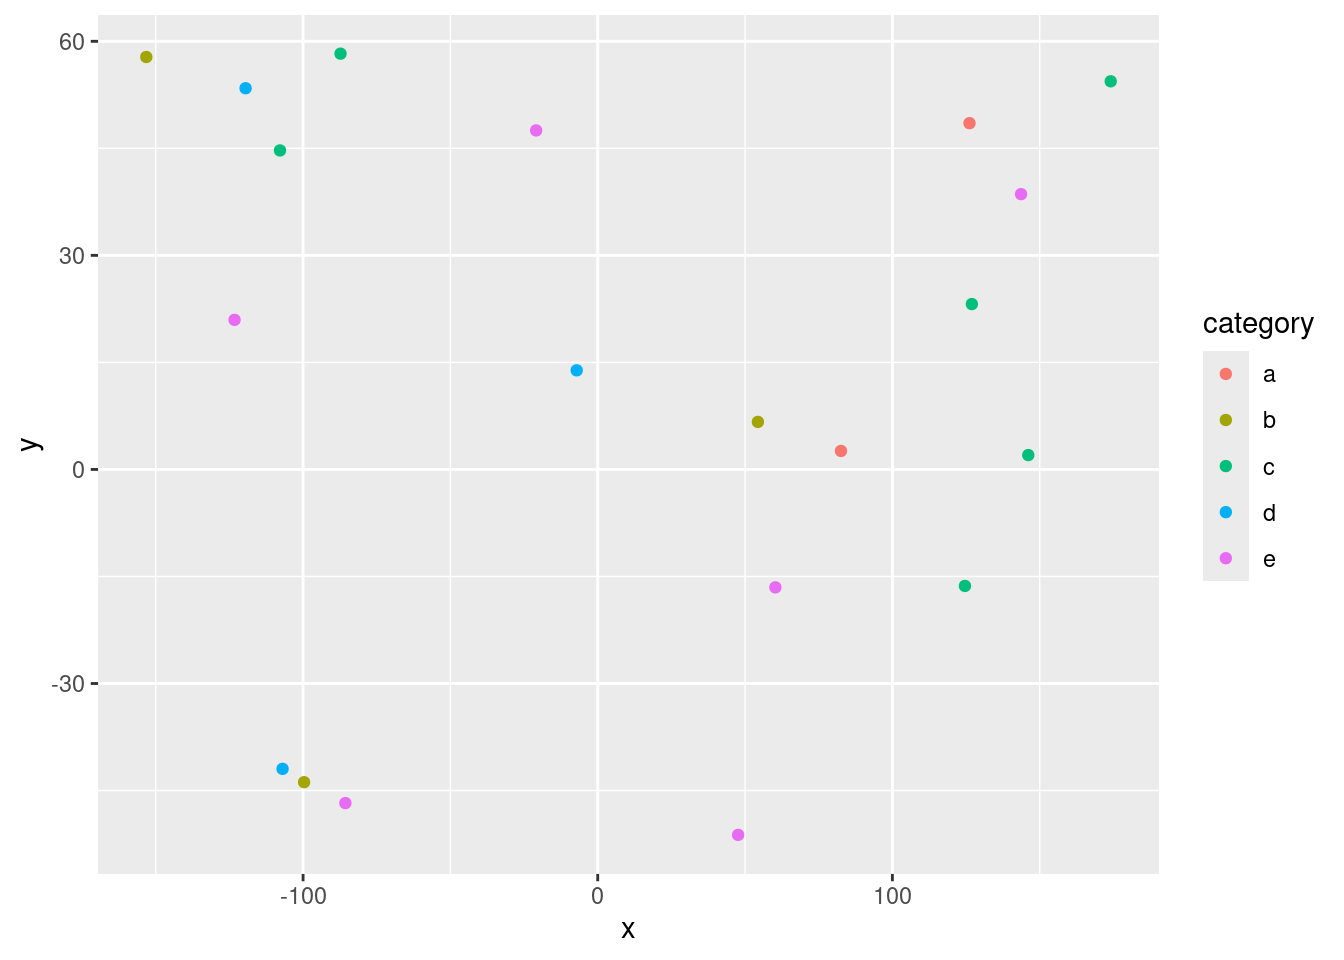
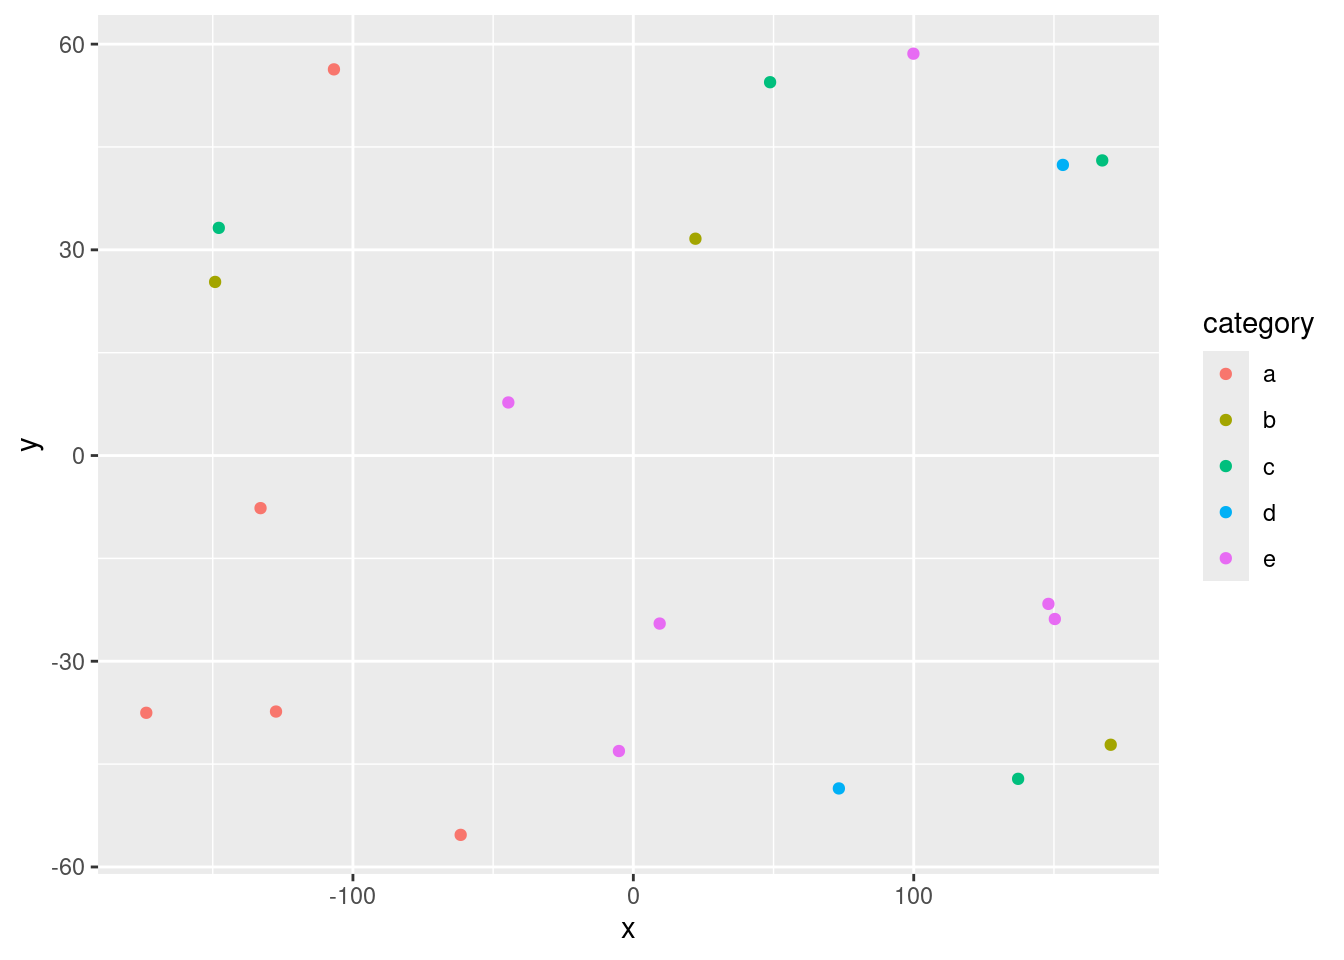
Built site for gh-pages

diff --git a/index.html b/index.html
@@ -266,74 +266,74 @@ pre > code.sourceCode > span > a:first-child::before { text-decoration: underlin
 </thead>
 <tbody>
 <tr class="odd">
-<td style="text-align: center;">54.36</td>
-<td style="text-align: center;">6.66</td>
-<td style="text-align: center;">10.17</td>
+<td style="text-align: center;">9.39</td>
+<td style="text-align: center;">-24.51</td>
+<td style="text-align: center;">15.81</td>
+<td style="text-align: center;">e</td>
+<td style="text-align: center;">1.21</td>
+</tr>
+<tr class="even">
+<td style="text-align: center;">-106.78</td>
+<td style="text-align: center;">56.32</td>
+<td style="text-align: center;">5.38</td>
+<td style="text-align: center;">a</td>
+<td style="text-align: center;">-0.19</td>
+</tr>
+<tr class="odd">
+<td style="text-align: center;">-5.14</td>
+<td style="text-align: center;">-43.09</td>
+<td style="text-align: center;">11.36</td>
+<td style="text-align: center;">e</td>
+<td style="text-align: center;">-1.27</td>
+</tr>
+<tr class="even">
+<td style="text-align: center;">-173.70</td>
+<td style="text-align: center;">-37.52</td>
+<td style="text-align: center;">14.14</td>
+<td style="text-align: center;">a</td>
+<td style="text-align: center;">0.38</td>
+</tr>
+<tr class="odd">
+<td style="text-align: center;">-149.15</td>
+<td style="text-align: center;">25.32</td>
+<td style="text-align: center;">9.07</td>
 <td style="text-align: center;">b</td>
-<td style="text-align: center;">-0.92</td>
+<td style="text-align: center;">0.58</td>
 </tr>
 <tr class="even">
-<td style="text-align: center;">146.12</td>
-<td style="text-align: center;">2.01</td>
-<td style="text-align: center;">15.77</td>
-<td style="text-align: center;">c</td>
-<td style="text-align: center;">1.34</td>
+<td style="text-align: center;">-132.95</td>
+<td style="text-align: center;">-7.67</td>
+<td style="text-align: center;">15.62</td>
+<td style="text-align: center;">a</td>
+<td style="text-align: center;">-0.44</td>
 </tr>
 <tr class="odd">
-<td style="text-align: center;">124.63</td>
-<td style="text-align: center;">-16.33</td>
-<td style="text-align: center;">11.21</td>
+<td style="text-align: center;">-147.84</td>
+<td style="text-align: center;">33.20</td>
+<td style="text-align: center;">11.69</td>
 <td style="text-align: center;">c</td>
-<td style="text-align: center;">0.54</td>
+<td style="text-align: center;">-0.05</td>
 </tr>
 <tr class="even">
-<td style="text-align: center;">60.29</td>
-<td style="text-align: center;">-16.53</td>
-<td style="text-align: center;">5.64</td>
-<td style="text-align: center;">e</td>
-<td style="text-align: center;">0.60</td>
-</tr>
-<tr class="odd">
-<td style="text-align: center;">174.10</td>
-<td style="text-align: center;">54.39</td>
-<td style="text-align: center;">9.44</td>
-<td style="text-align: center;">c</td>
-<td style="text-align: center;">0.13</td>
-</tr>
-<tr class="even">
-<td style="text-align: center;">-107.83</td>
-<td style="text-align: center;">44.70</td>
-<td style="text-align: center;">19.11</td>
-<td style="text-align: center;">c</td>
-<td style="text-align: center;">0.54</td>
-</tr>
-<tr class="odd">
-<td style="text-align: center;">47.65</td>
-<td style="text-align: center;">-51.21</td>
-<td style="text-align: center;">12.74</td>
-<td style="text-align: center;">e</td>
-<td style="text-align: center;">-0.37</td>
-</tr>
-<tr class="even">
-<td style="text-align: center;">-106.96</td>
-<td style="text-align: center;">-41.96</td>
-<td style="text-align: center;">6.06</td>
+<td style="text-align: center;">73.30</td>
+<td style="text-align: center;">-48.55</td>
+<td style="text-align: center;">15.06</td>
 <td style="text-align: center;">d</td>
-<td style="text-align: center;">-0.56</td>
+<td style="text-align: center;">-0.65</td>
 </tr>
 <tr class="odd">
-<td style="text-align: center;">-87.29</td>
-<td style="text-align: center;">58.27</td>
-<td style="text-align: center;">12.42</td>
-<td style="text-align: center;">c</td>
-<td style="text-align: center;">2.32</td>
+<td style="text-align: center;">153.19</td>
+<td style="text-align: center;">42.39</td>
+<td style="text-align: center;">19.00</td>
+<td style="text-align: center;">d</td>
+<td style="text-align: center;">-0.95</td>
 </tr>
 <tr class="even">
-<td style="text-align: center;">-20.90</td>
-<td style="text-align: center;">47.51</td>
-<td style="text-align: center;">11.70</td>
-<td style="text-align: center;">e</td>
-<td style="text-align: center;">0.87</td>
+<td style="text-align: center;">170.25</td>
+<td style="text-align: center;">-42.18</td>
+<td style="text-align: center;">12.75</td>
+<td style="text-align: center;">b</td>
+<td style="text-align: center;">1.60</td>
 </tr>
 </tbody>
 </table>
@@ -355,8 +355,8 @@ pre > code.sourceCode > span > a:first-child::before { text-decoration: underlin
 <span id="cb5-4"><a href="#cb5-4" aria-hidden="true" tabindex="-1"></a>  <span class="fu">addPopups</span>(<span class="sc">~</span>x[<span class="dv">2</span>], <span class="sc">~</span>y[<span class="dv">2</span>], <span class="st">"Random popup"</span>)</span>
 <span id="cb5-5"><a href="#cb5-5" aria-hidden="true" tabindex="-1"></a>m  <span class="co"># a map with the default OSM tile layer</span></span></code><button title="Copy to Clipboard" class="code-copy-button"><i class="bi"></i></button></pre></div>
 <div class="cell-output-display">
-<div class="leaflet html-widget html-fill-item" id="htmlwidget-ff63daefa44b1080f140" style="width:100%;height:325px;"></div>
-<script type="application/json" data-for="htmlwidget-ff63daefa44b1080f140">{"x":{"options":{"crs":{"crsClass":"L.CRS.EPSG3857","code":null,"proj4def":null,"projectedBounds":null,"options":{}}},"calls":[{"method":"addTiles","args":["https://{s}.tile.openstreetmap.org/{z}/{x}/{y}.png",null,null,{"minZoom":0,"maxZoom":18,"tileSize":256,"subdomains":"abc","errorTileUrl":"","tms":false,"noWrap":false,"zoomOffset":0,"zoomReverse":false,"opacity":1,"zIndex":1,"detectRetina":false,"attribution":"&copy; <a href=\"https://openstreetmap.org/copyright/\">OpenStreetMap<\/a>,  <a href=\"https://opendatacommons.org/licenses/odbl/\">ODbL<\/a>"}]},{"method":"addCircleMarkers","args":[[6.662621190771461,2.012910665944219,-16.32854679599404,-16.5284316893667,54.39157901331782,44.70318504609168,-51.21183838695288,-41.96215284056962,58.26524086296558,47.50880149193108,23.17172739654779,20.9623306710273,48.52781320922077,13.88719310984015,57.79672614298761,2.593962578102946,-46.75761474296451,38.5789246391505,53.420316176489,-43.83077862672508],[54.35532133094966,146.1249237321317,124.6304149925709,60.29192084446549,174.1033642273396,-107.8346844948828,47.64702924527228,-106.9587321113795,-87.28692487813532,-20.90153695084155,126.9727215729654,-123.2519169710577,126.17845418863,-7.135411743074656,-153.2102309726179,82.56216399371624,-85.63922267407179,143.6778559349477,-119.5113887451589,-99.65143896639347],[10.1705220376607,15.77271620626561,11.20807360624894,5.635004773503169,9.441925100982189,19.10796591546386,12.73875003564171,6.062795304460451,12.41566456272267,11.69976549688727,17.96492798719555,12.94610644225031,5.058771558105946,17.01900022453628,6.22012993437238,5.76005757204257,9.239922987762839,5.005080655682832,16.35476213530637,10.4336549108848],null,null,{"interactive":true,"className":"","stroke":true,"color":["b","c","c","e","c","c","e","d","c","e","c","e","a","d","b","a","e","e","d","b"],"weight":5,"opacity":0.5,"fill":true,"fillColor":["b","c","c","e","c","c","e","d","c","e","c","e","a","d","b","a","e","e","d","b"],"fillOpacity":0.2},null,null,null,null,null,{"interactive":false,"permanent":false,"direction":"auto","opacity":1,"offset":[0,0],"textsize":"10px","textOnly":false,"className":"","sticky":true},null]},{"method":"addPopups","args":[2.012910665944219,146.1249237321317,"Random popup",null,null,{"maxWidth":300,"minWidth":50,"autoPan":true,"keepInView":false,"closeButton":true,"className":""}]}],"limits":{"lat":[-51.21183838695288,58.26524086296558],"lng":[-153.2102309726179,174.1033642273396]}},"evals":[],"jsHooks":[]}</script>
+<div class="leaflet html-widget html-fill-item" id="htmlwidget-e7ec3b11432c57e111bc" style="width:100%;height:325px;"></div>
+<script type="application/json" data-for="htmlwidget-e7ec3b11432c57e111bc">{"x":{"options":{"crs":{"crsClass":"L.CRS.EPSG3857","code":null,"proj4def":null,"projectedBounds":null,"options":{}}},"calls":[{"method":"addTiles","args":["https://{s}.tile.openstreetmap.org/{z}/{x}/{y}.png",null,null,{"minZoom":0,"maxZoom":18,"tileSize":256,"subdomains":"abc","errorTileUrl":"","tms":false,"noWrap":false,"zoomOffset":0,"zoomReverse":false,"opacity":1,"zIndex":1,"detectRetina":false,"attribution":"&copy; <a href=\"https://openstreetmap.org/copyright/\">OpenStreetMap<\/a>,  <a href=\"https://opendatacommons.org/licenses/odbl/\">ODbL<\/a>"}]},{"method":"addCircleMarkers","args":[[-24.5059116370976,56.31943062879145,-43.09215213172138,-37.51729686744511,25.31959002837539,-7.668799459934235,33.20468039251864,-48.54856476187706,42.38552427850664,-42.17836012132466,58.60833196900785,-47.14998805895448,-55.32076100818813,31.62328636273742,-37.33553370460868,-21.63605047389865,54.44574499502778,43.03941917605698,7.741220137104392,-23.840227201581],[9.391434425488114,-106.7754440288991,-5.142557015642524,-173.6978288926184,-149.1530124843121,-132.9536347836256,-147.8397386614233,73.30114192329347,153.1890301220119,170.2500171773136,99.88362388685346,137.2290883585811,-61.57791450619698,22.14499371126294,-127.4335930589586,148.0330987740308,48.77254508435726,167.2273052483797,-44.57961629144847,150.31629181467],[15.81165873794816,5.375876930775121,11.36414551641792,14.13734554196708,9.067434844328091,15.62141968635842,11.69207659550011,15.05947644240223,18.99990996811539,12.74836612865329,19.98120957170613,12.16869920026511,11.49980201967992,8.000456044683233,17.10389326442964,13.22594516095705,16.83877783711068,16.96646149852313,6.96713964571245,12.27343159727752],null,null,{"interactive":true,"className":"","stroke":true,"color":["e","a","e","a","b","a","c","d","d","b","e","c","a","b","a","e","c","c","e","e"],"weight":5,"opacity":0.5,"fill":true,"fillColor":["e","a","e","a","b","a","c","d","d","b","e","c","a","b","a","e","c","c","e","e"],"fillOpacity":0.2},null,null,null,null,null,{"interactive":false,"permanent":false,"direction":"auto","opacity":1,"offset":[0,0],"textsize":"10px","textOnly":false,"className":"","sticky":true},null]},{"method":"addPopups","args":[56.31943062879145,-106.7754440288991,"Random popup",null,null,{"maxWidth":300,"minWidth":50,"autoPan":true,"keepInView":false,"closeButton":true,"className":""}]}],"limits":{"lat":[-55.32076100818813,58.60833196900785],"lng":[-173.6978288926184,170.2500171773136]}},"evals":[],"jsHooks":[]}</script>
 <p>Map of completely random data</p>
 </div>
 </div>
@@ -379,8 +379,8 @@ pre > code.sourceCode > span > a:first-child::before { text-decoration: underlin
 <span id="cb7-2"><a href="#cb7-2" aria-hidden="true" tabindex="-1"></a><span class="fu">dygraph</span>(nhtemp, <span class="at">main =</span> <span class="st">"New Haven Temperatures"</span>) <span class="sc">|&gt;</span> </span>
 <span id="cb7-3"><a href="#cb7-3" aria-hidden="true" tabindex="-1"></a>  <span class="fu">dyRangeSelector</span>(<span class="at">dateWindow =</span> <span class="fu">c</span>(<span class="st">"1920-01-01"</span>, <span class="st">"1960-01-01"</span>)) </span></code><button title="Copy to Clipboard" class="code-copy-button"><i class="bi"></i></button></pre></div>
 <div class="cell-output-display">
-<div class="dygraphs html-widget html-fill-item" id="htmlwidget-525c9c9829ed4529da8f" style="width:100%;height:464px;"></div>
-<script type="application/json" data-for="htmlwidget-525c9c9829ed4529da8f">{"x":{"attrs":{"title":"New Haven Temperatures","labels":["year","V1"],"legend":"auto","retainDateWindow":false,"axes":{"x":{"pixelsPerLabel":60}},"showRangeSelector":true,"dateWindow":["1920-01-01T00:00:00.000Z","1960-01-01T00:00:00.000Z"],"rangeSelectorHeight":40,"rangeSelectorPlotFillColor":" #A7B1C4","rangeSelectorPlotStrokeColor":"#808FAB","interactionModel":"Dygraph.Interaction.defaultModel"},"scale":"yearly","annotations":[],"shadings":[],"events":[],"format":"date","data":[["1912-01-01T00:00:00.000Z","1913-01-01T00:00:00.000Z","1914-01-01T00:00:00.000Z","1915-01-01T00:00:00.000Z","1916-01-01T00:00:00.000Z","1917-01-01T00:00:00.000Z","1918-01-01T00:00:00.000Z","1919-01-01T00:00:00.000Z","1920-01-01T00:00:00.000Z","1921-01-01T00:00:00.000Z","1922-01-01T00:00:00.000Z","1923-01-01T00:00:00.000Z","1924-01-01T00:00:00.000Z","1925-01-01T00:00:00.000Z","1926-01-01T00:00:00.000Z","1927-01-01T00:00:00.000Z","1928-01-01T00:00:00.000Z","1929-01-01T00:00:00.000Z","1930-01-01T00:00:00.000Z","1931-01-01T00:00:00.000Z","1932-01-01T00:00:00.000Z","1933-01-01T00:00:00.000Z","1934-01-01T00:00:00.000Z","1935-01-01T00:00:00.000Z","1936-01-01T00:00:00.000Z","1937-01-01T00:00:00.000Z","1938-01-01T00:00:00.000Z","1939-01-01T00:00:00.000Z","1940-01-01T00:00:00.000Z","1941-01-01T00:00:00.000Z","1942-01-01T00:00:00.000Z","1943-01-01T00:00:00.000Z","1944-01-01T00:00:00.000Z","1945-01-01T00:00:00.000Z","1946-01-01T00:00:00.000Z","1947-01-01T00:00:00.000Z","1948-01-01T00:00:00.000Z","1949-01-01T00:00:00.000Z","1950-01-01T00:00:00.000Z","1951-01-01T00:00:00.000Z","1952-01-01T00:00:00.000Z","1953-01-01T00:00:00.000Z","1954-01-01T00:00:00.000Z","1955-01-01T00:00:00.000Z","1956-01-01T00:00:00.000Z","1957-01-01T00:00:00.000Z","1958-01-01T00:00:00.000Z","1959-01-01T00:00:00.000Z","1960-01-01T00:00:00.000Z","1961-01-01T00:00:00.000Z","1962-01-01T00:00:00.000Z","1963-01-01T00:00:00.000Z","1964-01-01T00:00:00.000Z","1965-01-01T00:00:00.000Z","1966-01-01T00:00:00.000Z","1967-01-01T00:00:00.000Z","1968-01-01T00:00:00.000Z","1969-01-01T00:00:00.000Z","1970-01-01T00:00:00.000Z","1971-01-01T00:00:00.000Z"],[49.9,52.3,49.4,51.1,49.4,47.9,49.8,50.9,49.3,51.9,50.8,49.6,49.3,50.6,48.4,50.7,50.9,50.6,51.5,52.8,51.8,51.1,49.8,50.2,50.4,51.6,51.8,50.9,48.8,51.7,51,50.6,51.7,51.5,52.1,51.3,51,54,51.4,52.7,53.1,54.6,52,52,50.9,52.6,50.2,52.6,51.6,51.9,50.5,50.9,51.7,51.4,51.7,50.8,51.9,51.8,51.9,53]]},"evals":["attrs.interactionModel"],"jsHooks":[]}</script>
+<div class="dygraphs html-widget html-fill-item" id="htmlwidget-e13ebc5998f12ace86b1" style="width:100%;height:464px;"></div>
+<script type="application/json" data-for="htmlwidget-e13ebc5998f12ace86b1">{"x":{"attrs":{"title":"New Haven Temperatures","labels":["year","V1"],"legend":"auto","retainDateWindow":false,"axes":{"x":{"pixelsPerLabel":60}},"showRangeSelector":true,"dateWindow":["1920-01-01T00:00:00.000Z","1960-01-01T00:00:00.000Z"],"rangeSelectorHeight":40,"rangeSelectorPlotFillColor":" #A7B1C4","rangeSelectorPlotStrokeColor":"#808FAB","interactionModel":"Dygraph.Interaction.defaultModel"},"scale":"yearly","annotations":[],"shadings":[],"events":[],"format":"date","data":[["1912-01-01T00:00:00.000Z","1913-01-01T00:00:00.000Z","1914-01-01T00:00:00.000Z","1915-01-01T00:00:00.000Z","1916-01-01T00:00:00.000Z","1917-01-01T00:00:00.000Z","1918-01-01T00:00:00.000Z","1919-01-01T00:00:00.000Z","1920-01-01T00:00:00.000Z","1921-01-01T00:00:00.000Z","1922-01-01T00:00:00.000Z","1923-01-01T00:00:00.000Z","1924-01-01T00:00:00.000Z","1925-01-01T00:00:00.000Z","1926-01-01T00:00:00.000Z","1927-01-01T00:00:00.000Z","1928-01-01T00:00:00.000Z","1929-01-01T00:00:00.000Z","1930-01-01T00:00:00.000Z","1931-01-01T00:00:00.000Z","1932-01-01T00:00:00.000Z","1933-01-01T00:00:00.000Z","1934-01-01T00:00:00.000Z","1935-01-01T00:00:00.000Z","1936-01-01T00:00:00.000Z","1937-01-01T00:00:00.000Z","1938-01-01T00:00:00.000Z","1939-01-01T00:00:00.000Z","1940-01-01T00:00:00.000Z","1941-01-01T00:00:00.000Z","1942-01-01T00:00:00.000Z","1943-01-01T00:00:00.000Z","1944-01-01T00:00:00.000Z","1945-01-01T00:00:00.000Z","1946-01-01T00:00:00.000Z","1947-01-01T00:00:00.000Z","1948-01-01T00:00:00.000Z","1949-01-01T00:00:00.000Z","1950-01-01T00:00:00.000Z","1951-01-01T00:00:00.000Z","1952-01-01T00:00:00.000Z","1953-01-01T00:00:00.000Z","1954-01-01T00:00:00.000Z","1955-01-01T00:00:00.000Z","1956-01-01T00:00:00.000Z","1957-01-01T00:00:00.000Z","1958-01-01T00:00:00.000Z","1959-01-01T00:00:00.000Z","1960-01-01T00:00:00.000Z","1961-01-01T00:00:00.000Z","1962-01-01T00:00:00.000Z","1963-01-01T00:00:00.000Z","1964-01-01T00:00:00.000Z","1965-01-01T00:00:00.000Z","1966-01-01T00:00:00.000Z","1967-01-01T00:00:00.000Z","1968-01-01T00:00:00.000Z","1969-01-01T00:00:00.000Z","1970-01-01T00:00:00.000Z","1971-01-01T00:00:00.000Z"],[49.9,52.3,49.4,51.1,49.4,47.9,49.8,50.9,49.3,51.9,50.8,49.6,49.3,50.6,48.4,50.7,50.9,50.6,51.5,52.8,51.8,51.1,49.8,50.2,50.4,51.6,51.8,50.9,48.8,51.7,51,50.6,51.7,51.5,52.1,51.3,51,54,51.4,52.7,53.1,54.6,52,52,50.9,52.6,50.2,52.6,51.6,51.9,50.5,50.9,51.7,51.4,51.7,50.8,51.9,51.8,51.9,53]]},"evals":["attrs.interactionModel"],"jsHooks":[]}</script>
 </div>
 </div>
 </section>
